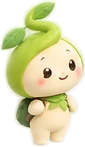
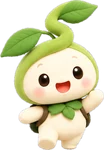
#00287: feat:新しい設定画から仲間5人の正面の絵とレアスプル10色の絵・育つ絵を切り抜く(畑とスプルキャッチの種・芽を新しい絵にする。Sの輪の内側などに囲まれた格子模様も抜く)

diff --git a/frontend/src/components/spru/spru-assets.ts b/frontend/src/components/spru/spru-assets.ts
@@ -54,17 +54,69 @@ export const SPRU_BLOOM = {
   "bud": { src: "/spru/bloom/bud.webp", width: 25, height: 29 },
 } as const satisfies Record<string, SpruImage>;
 
-export const GARDEN_IMAGES = {
-  "seed": { src: "/spru/garden/seed.webp", width: 65, height: 112 },
-  "sprout": { src: "/spru/garden/sprout.webp", width: 62, height: 120 },
+export const GROWTH_IMAGES = {
+  "spru/seed": { src: "/spru/growth/spru/seed.webp", width: 68, height: 98 },
+  "spru/sprout": { src: "/spru/growth/spru/sprout.webp", width: 70, height: 119 },
+  "spru/bud": { src: "/spru/growth/spru/bud.webp", width: 68, height: 126 },
+  "spru/flower": { src: "/spru/growth/spru/flower.webp", width: 103, height: 140 },
+  "ruby/seed": { src: "/spru/growth/ruby/seed.webp", width: 65, height: 95 },
+  "ruby/sprout": { src: "/spru/growth/ruby/sprout.webp", width: 71, height: 118 },
+  "ruby/bud": { src: "/spru/growth/ruby/bud.webp", width: 70, height: 124 },
+  "ruby/flower": { src: "/spru/growth/ruby/flower.webp", width: 114, height: 141 },
+  "sapphire/seed": { src: "/spru/growth/sapphire/seed.webp", width: 66, height: 95 },
+  "sapphire/sprout": { src: "/spru/growth/sapphire/sprout.webp", width: 71, height: 119 },
+  "sapphire/bud": { src: "/spru/growth/sapphire/bud.webp", width: 69, height: 125 },
+  "sapphire/flower": { src: "/spru/growth/sapphire/flower.webp", width: 110, height: 142 },
+  "silver/seed": { src: "/spru/growth/silver/seed.webp", width: 65, height: 92 },
+  "silver/sprout": { src: "/spru/growth/silver/sprout.webp", width: 72, height: 119 },
+  "silver/bud": { src: "/spru/growth/silver/bud.webp", width: 70, height: 122 },
+  "silver/flower": { src: "/spru/growth/silver/flower.webp", width: 102, height: 137 },
+  "amber/seed": { src: "/spru/growth/amber/seed.webp", width: 63, height: 92 },
+  "amber/sprout": { src: "/spru/growth/amber/sprout.webp", width: 73, height: 120 },
+  "amber/bud": { src: "/spru/growth/amber/bud.webp", width: 72, height: 125 },
+  "amber/flower": { src: "/spru/growth/amber/flower.webp", width: 117, height: 145 },
+  "obsidian/seed": { src: "/spru/growth/obsidian/seed.webp", width: 66, height: 95 },
+  "obsidian/sprout": { src: "/spru/growth/obsidian/sprout.webp", width: 72, height: 118 },
+  "obsidian/bud": { src: "/spru/growth/obsidian/bud.webp", width: 70, height: 125 },
+  "obsidian/flower": { src: "/spru/growth/obsidian/flower.webp", width: 113, height: 141 },
+  "crystal/seed": { src: "/spru/growth/crystal/seed.webp", width: 64, height: 94 },
+  "crystal/sprout": { src: "/spru/growth/crystal/sprout.webp", width: 71, height: 121 },
+  "crystal/bud": { src: "/spru/growth/crystal/bud.webp", width: 69, height: 125 },
+  "crystal/flower": { src: "/spru/growth/crystal/flower.webp", width: 110, height: 140 },
+  "pearl/seed": { src: "/spru/growth/pearl/seed.webp", width: 65, height: 91 },
+  "pearl/sprout": { src: "/spru/growth/pearl/sprout.webp", width: 71, height: 119 },
+  "pearl/bud": { src: "/spru/growth/pearl/bud.webp", width: 69, height: 125 },
+  "pearl/flower": { src: "/spru/growth/pearl/flower.webp", width: 107, height: 139 },
+  "emerald/seed": { src: "/spru/growth/emerald/seed.webp", width: 67, height: 95 },
+  "emerald/sprout": { src: "/spru/growth/emerald/sprout.webp", width: 71, height: 118 },
+  "emerald/bud": { src: "/spru/growth/emerald/bud.webp", width: 70, height: 124 },
+  "emerald/flower": { src: "/spru/growth/emerald/flower.webp", width: 110, height: 140 },
+  "gold/seed": { src: "/spru/growth/gold/seed.webp", width: 59, height: 79 },
+  "gold/sprout": { src: "/spru/growth/gold/sprout.webp", width: 73, height: 118 },
+  "gold/bud": { src: "/spru/growth/gold/bud.webp", width: 71, height: 122 },
+  "gold/flower": { src: "/spru/growth/gold/flower.webp", width: 98, height: 130 },
+  "platinum/seed": { src: "/spru/growth/platinum/seed.webp", width: 67, height: 92 },
+  "platinum/sprout": { src: "/spru/growth/platinum/sprout.webp", width: 70, height: 119 },
+  "platinum/bud": { src: "/spru/growth/platinum/bud.webp", width: 69, height: 122 },
+  "platinum/flower": { src: "/spru/growth/platinum/flower.webp", width: 108, height: 139 },
 } as const satisfies Record<string, SpruImage>;
 
 export const COMPANION_IMAGES = {
-  "lumi": { src: "/spru/companions/lumi.webp", width: 86, height: 144 },
-  "momo": { src: "/spru/companions/momo.webp", width: 85, height: 142 },
-  "kuru": { src: "/spru/companions/kuru.webp", width: 88, height: 154 },
-  "piko": { src: "/spru/companions/piko.webp", width: 85, height: 147 },
-  "ruru": { src: "/spru/companions/ruru.webp", width: 82, height: 153 },
+  "lumi": { src: "/spru/companions/lumi.webp", width: 104, height: 153 },
+  "momo": { src: "/spru/companions/momo.webp", width: 101, height: 152 },
+  "kuru": { src: "/spru/companions/kuru.webp", width: 94, height: 155 },
+  "piko": { src: "/spru/companions/piko.webp", width: 104, height: 150 },
+  "ruru": { src: "/spru/companions/ruru.webp", width: 95, height: 151 },
+  "ruby": { src: "/spru/companions/ruby.webp", width: 104, height: 154 },
+  "sapphire": { src: "/spru/companions/sapphire.webp", width: 104, height: 154 },
+  "silver": { src: "/spru/companions/silver.webp", width: 104, height: 152 },
+  "amber": { src: "/spru/companions/amber.webp", width: 104, height: 154 },
+  "obsidian": { src: "/spru/companions/obsidian.webp", width: 103, height: 153 },
+  "crystal": { src: "/spru/companions/crystal.webp", width: 104, height: 153 },
+  "pearl": { src: "/spru/companions/pearl.webp", width: 104, height: 153 },
+  "emerald": { src: "/spru/companions/emerald.webp", width: 104, height: 153 },
+  "gold": { src: "/spru/companions/gold.webp", width: 100, height: 148 },
+  "platinum": { src: "/spru/companions/platinum.webp", width: 104, height: 153 },
 } as const satisfies Record<string, SpruImage>;
 
 export const OUTING_IMAGES = {
@@ -229,7 +281,7 @@ export type SpruImageKey = keyof typeof SPRU_IMAGES;
 export type SpruFaceKey = keyof typeof SPRU_FACES;
 export type SpruSceneKey = keyof typeof SPRU_SCENES;
 export type SpruBloomKey = keyof typeof SPRU_BLOOM;
-export type GardenImageKey = keyof typeof GARDEN_IMAGES;
+export type GrowthImageKey = keyof typeof GROWTH_IMAGES;
 export type CompanionKey = keyof typeof COMPANION_IMAGES;
 export type OutingKey = keyof typeof OUTING_IMAGES;
 export type CostumeKey = keyof typeof COSTUME_IMAGES;

diff --git a/frontend/src/components/world/garden-art.tsx b/frontend/src/components/world/garden-art.tsx
@@ -1,18 +1,18 @@
-import { GARDEN_IMAGES, type GardenImageKey } from "@/components/spru/spru-assets";
+import { plantImage, type PlantStage } from "@/components/spru/plant";
 
 import type { GardenState } from "./types";
 
-// 畑の芽の絵の高さ(SVGの単位)。大きな芽は小さな芽と同じ絵を大きく描く
-const PLANT: Record<Exclude<GardenState, "empty">, { image: GardenImageKey; height: number }> = {
-  seed: { image: "seed", height: 18 },
-  sprout: { image: "sprout", height: 22 },
-  sprout_big: { image: "sprout", height: 32 },
+// 畑の状態ごとの絵と高さ(SVGの単位)。2回水をあげた大きな芽は、つぼみの絵(docs/design/2026-09-29-rare-spru-design.md 3-4)
+const PLANT: Record<Exclude<GardenState, "empty">, { stage: PlantStage; height: number }> = {
+  seed: { stage: "seed", height: 16 },
+  sprout: { stage: "sprout", height: 24 },
+  sprout_big: { stage: "bud", height: 30 },
 };
 
-/** スプルの家の前の畑(原点=マスの中心)。土の畝に、水やりの回数に応じた種・芽を重ねる */
-export function GardenArt({ state }: { state: GardenState }) {
+/** スプルの家の前の畑(原点=マスの中心)。土の畝に、水やりの回数に応じた種・芽・つぼみを重ねる */
+export function GardenArt({ state, look }: { state: GardenState; look: string | null }) {
   const plant = state === "empty" ? null : PLANT[state];
-  const asset = plant ? GARDEN_IMAGES[plant.image] : null;
+  const asset = plant ? plantImage(look, plant.stage) : null;
   const width = plant && asset ? (asset.width * plant.height) / asset.height : 0;
   return (
     <g>

diff --git a/frontend/src/components/spru/plant.test.ts b/frontend/src/components/spru/plant.test.ts
@@ -1,0 +1,25 @@
+import { describe, expect, it } from "vitest";
+
+import { plantImage } from "./plant";
+import { GROWTH_IMAGES } from "./spru-assets";
+
+describe("plantImage", () => {
+  it("色と段階の絵を返す", () => {
+    expect(plantImage("gold", "bud")).toBe(GROWTH_IMAGES["gold/bud"]);
+    expect(plantImage("spru", "seed")).toBe(GROWTH_IMAGES["spru/seed"]);
+  });
+
+  it("見た目が無い・知らない色は、ふつうのスプルの絵", () => {
+    expect(plantImage(null, "sprout")).toBe(GROWTH_IMAGES["spru/sprout"]);
+    expect(plantImage("riri", "flower")).toBe(GROWTH_IMAGES["spru/flower"]);
+  });
+
+  it("10色と、ふつうのスプルの4段階がそろっている", () => {
+    const looks = ["spru", "ruby", "sapphire", "silver", "amber", "obsidian", "crystal", "pearl", "emerald", "gold", "platinum"];
+    for (const look of looks) {
+      for (const stage of ["seed", "sprout", "bud", "flower"] as const) {
+        expect(Object.keys(GROWTH_IMAGES)).toContain(`${look}/${stage}`);
+      }
+    }
+  });
+});

diff --git a/frontend/src/components/games/catch/catch-view.test.ts b/frontend/src/components/games/catch/catch-view.test.ts
@@ -1,7 +1,7 @@
 import { describe, expect, it } from "vitest";
 
 import type { GameQuestion } from "@/components/games/game-question";
-import { GARDEN_IMAGES, SPRU_BLOOM } from "@/components/spru/spru-assets";
+import { GROWTH_IMAGES, SPRU_BLOOM } from "@/components/spru/spru-assets";
 
 import { createCatchGame, tick, type CatchState } from "./catch-engine";
 import {
@@ -77,8 +77,8 @@ describe("落ちてくる言葉のカードの見た目", () => {
 
 describe("成長の印の絵", () => {
   it("種・芽は畑の絵、つぼみ・花はスプルの頭の絵", () => {
-    expect(growthImage("seed")).toBe(GARDEN_IMAGES.seed);
-    expect(growthImage("sprout")).toBe(GARDEN_IMAGES.sprout);
+    expect(growthImage("seed")).toBe(GROWTH_IMAGES["spru/seed"]);
+    expect(growthImage("sprout")).toBe(GROWTH_IMAGES["spru/sprout"]);
     expect(growthImage("bud")).toBe(SPRU_BLOOM.bud);
     expect(growthImage("flower")).toBe(SPRU_BLOOM.flower);
   });

diff --git a/frontend/src/components/games/catch/catch-view.ts b/frontend/src/components/games/catch/catch-view.ts
@@ -1,5 +1,5 @@
 import { splitPrompt } from "@/components/games/game-question";
-import { GARDEN_IMAGES, SPRU_BLOOM, type SpruImage } from "@/components/spru/spru-assets";
+import { GROWTH_IMAGES, SPRU_BLOOM, type SpruImage } from "@/components/spru/spru-assets";
 
 import type { CatchState, GrowthStage } from "./catch-engine";
 
@@ -46,8 +46,8 @@ export function cardLook(state: CatchState, lane: number): CardLook {
 
 export function growthImage(stage: GrowthStage): SpruImage {
   const images: Record<GrowthStage, SpruImage> = {
-    seed: GARDEN_IMAGES.seed,
-    sprout: GARDEN_IMAGES.sprout,
+    seed: GROWTH_IMAGES["spru/seed"],
+    sprout: GROWTH_IMAGES["spru/sprout"],
     bud: SPRU_BLOOM.bud,
     flower: SPRU_BLOOM.flower,
   };

diff --git a/frontend/src/components/spru/plant.ts b/frontend/src/components/spru/plant.ts
@@ -1,0 +1,12 @@
+import { GROWTH_IMAGES, type SpruImage } from "./spru-assets";
+
+export type PlantStage = "seed" | "sprout" | "bud" | "flower";
+
+/**
+ * 畑で育つ絵(docs/design/2026-09-29-rare-spru-design.md 3-4)。look は spru(ふつうのスプル。仲間の種もこれ)か
+ * レアスプルの色。見た目が無い・絵の無い色は、ふつうのスプルの絵
+ */
+export function plantImage(look: string | null, stage: PlantStage): SpruImage {
+  const images: Record<string, SpruImage> = GROWTH_IMAGES;
+  return images[`${look ?? "spru"}/${stage}`] ?? GROWTH_IMAGES[`spru/${stage}`];
+}

diff --git a/frontend/src/components/world/world-scene.tsx b/frontend/src/components/world/world-scene.tsx
@@ -343,7 +343,7 @@ export function WorldScene({
                 <>
                   <g style={artStyle}>
                     {o.landmarkKey === "garden" ? (
-                      <GardenArt state={garden.state} />
+                      <GardenArt state={garden.state} look={null} />
                     ) : (
                       <LandmarkArt landmarkKey={o.landmarkKey} />
                     )}

diff --git a/tools/spru-assets/extract.py b/tools/spru-assets/extract.py
@@ -6,7 +6,7 @@
 - 切り抜く範囲は同じフォルダの crops.json に書く(素材集上のピクセル座標 [左, 上, 右, 下])
 - 1点ごとに "width" を書くと、その幅(px)に縮める(アイテムは1マス256px・2×2は384px)
 - 出力: frontend/public/spru/{group}/{key}.webp、表情の顔アイコン faces/、シーン scenes/、
-  つぼみ・花 bloom/、畑の種・芽 garden/、仲間 companions/、リュックのスプル outing/、季節の衣装 costumes/、バッジ badges/、
+  つぼみ・花 bloom/、畑で育つ絵 growth/{見た目}/{段階}.webp(キーに / を入れる)、仲間 companions/、リュックのスプル outing/、季節の衣装 costumes/、バッジ badges/、
   国のスタンプ stamps/(キーは国のコードの小文字)、スプルの家 house/(背景が透明でない絵は四隅から背景を抜く)、
   (背景の透明を灰色の格子模様で描いてしまった絵は "background": "checker" で格子を抜く。新しい設定画 spru/ の多く)、
   町のアイテム・おみやげ・目印 items/(キーは絵のキー。docs/design/2026-09-28-town-items-design.md 7-1。
@@ -35,6 +35,11 @@ TIP_ROWS = 6  # いちばん上から何行分の平均を、Sの先の横位置
 BG_THRESH = 55  # 背景を抜くとき、四隅の色からどれだけ離れた色まで背景とみなすか
 CHECKER_SPREAD = 14  # 格子とみなす色の、RGBの最大と最小の差の上限(色味のない灰色)
 CHECKER_RANGE = (100, 215)  # 格子とみなす明るさ(Rの値)の範囲。白い花びらや、つやの白は入らない
+CHECKER_TONE_DIST = 16  # 明るさの山の近くとみなす差
+CHECKER_HOLE_MIN = 30  # 囲まれた格子として抜く塊の最小の大きさ(小さな灰色の点は残す)
+CHECKER_HOLE_TONE_SHARE = 0.6  # 囲まれた塊のうち、明るさの2つの山の近くにある点の割合がこれ以上なら格子とみなす
+CHECKER_HOLE_SPREAD = 32  # 囲まれた格子とみなす色の、RGBの最大と最小の差の上限(うっすら色が付いた格子も入れる)
+CHECKER_HOLE_GAP = 30  # 格子の濃い灰と薄い灰の明るさの差の下限(四辺の格子では約48)
 
 
 def components(mask: Image.Image) -> list[list[tuple[int, int]]]:
@@ -111,10 +116,61 @@ def clear_checker(img: Image.Image) -> Image.Image:
         for nx, ny in ((x + 1, y), (x - 1, y), (x, y + 1), (x, y - 1)):
             if 0 <= nx < w and 0 <= ny < h and not seen[ny * w + nx]:
                 queue.append((nx, ny))
+    clear_checker_holes(px, w, h, seen)
     alpha = Image.frombytes("L", (w, h), bytes(0 if v else 255 for v in seen)).filter(ImageFilter.GaussianBlur(1.2))
     out = rgb.convert("RGBA")
     out.putalpha(alpha)
     return out
+
+
+def clear_checker_holes(px, w: int, h: int, seen: bytearray) -> None:
+    """Sの輪の内側や足もとの影のように、四辺からつながらない格子、うっすら色が付いた格子も抜く(seen に印を付ける)。
+    色味の少ない灰色の塊を集め、明るさが2つの山(格子の濃い灰と薄い灰)にはっきり分かれている塊だけを格子とみなす
+    (体のつやや影は明るさがなだらかに変わるので2つの山にならず、残る)"""
+    lo, hi = CHECKER_RANGE
+
+    def candidate(x: int, y: int) -> bool:
+        r, g, b = px[x, y]
+        return max(r, g, b) - min(r, g, b) <= CHECKER_HOLE_SPREAD and lo - 20 <= (r + g + b) // 3 <= hi
+
+    visited = bytearray(w * h)
+    for start in range(w * h):
+        if seen[start] or visited[start]:
+            continue
+        sx, sy = start % w, start // w
+        if not candidate(sx, sy):
+            continue
+        comp = []
+        queue = deque([(sx, sy)])
+        visited[start] = 1
+        while queue:
+            x, y = queue.popleft()
+            comp.append((x, y))
+            for nx, ny in ((x + 1, y), (x - 1, y), (x, y + 1), (x, y - 1)):
+                j = ny * w + nx
+                if 0 <= nx < w and 0 <= ny < h and not visited[j] and not seen[j] and candidate(nx, ny):
+                    visited[j] = 1
+                    queue.append((nx, ny))
+        if len(comp) >= CHECKER_HOLE_MIN and is_two_tone([sum(px[x, y]) // 3 for x, y in comp]):
+            for x, y in comp:
+                seen[y * w + x] = 1
+
+
+def is_two_tone(values: list[int]) -> bool:
+    """明るさが、はなれた2つの山にまとまっているか(格子の市松)。2つに分けたそれぞれの平均の差が CHECKER_HOLE_GAP 以上で、
+    どちらの山にも2割以上あり、山の近く(±CHECKER_TONE_DIST)に CHECKER_HOLE_TONE_SHARE 以上が入っていれば真"""
+    dark, light = min(values), max(values)
+    for _ in range(10):
+        mid = (dark + light) / 2
+        low = [v for v in values if v <= mid]
+        high = [v for v in values if v > mid]
+        if not low or not high:
+            return False
+        dark, light = sum(low) / len(low), sum(high) / len(high)
+    if light - dark < CHECKER_HOLE_GAP or min(len(low), len(high)) < len(values) * 0.2:
+        return False
+    near = sum(1 for v in values if abs(v - dark) <= CHECKER_TONE_DIST or abs(v - light) <= CHECKER_TONE_DIST)
+    return near >= len(values) * CHECKER_HOLE_TONE_SHARE
 
 
 def cut_figure(src: Image.Image, box: list[int], scale: float, mode: str = "largest") -> Image.Image:
@@ -174,7 +230,7 @@ def entries(items: dict) -> str:
 
 
 def write_ts(
-    images: dict, faces: dict, scenes: dict, bloom: dict, garden: dict, companions: dict,
+    images: dict, faces: dict, scenes: dict, bloom: dict, growth: dict, companions: dict,
     outing: dict, costumes: dict, badges: dict, stamps: dict, house: dict, items: dict, tips: dict,
     icons: dict, stages: dict, avatars: dict, travel: dict, pages: dict,
 ) -> None:
@@ -201,8 +257,8 @@ export const SPRU_BLOOM = {{
 {entries(bloom)}
 }} as const satisfies Record<string, SpruImage>;
 
-export const GARDEN_IMAGES = {{
-{entries(garden)}
+export const GROWTH_IMAGES = {{
+{entries(growth)}
 }} as const satisfies Record<string, SpruImage>;
 
 export const COMPANION_IMAGES = {{
@@ -265,7 +321,7 @@ export type SpruImageKey = keyof typeof SPRU_IMAGES;
 export type SpruFaceKey = keyof typeof SPRU_FACES;
 export type SpruSceneKey = keyof typeof SPRU_SCENES;
 export type SpruBloomKey = keyof typeof SPRU_BLOOM;
-export type GardenImageKey = keyof typeof GARDEN_IMAGES;
+export type GrowthImageKey = keyof typeof GROWTH_IMAGES;
 export type CompanionKey = keyof typeof COMPANION_IMAGES;
 export type OutingKey = keyof typeof OUTING_IMAGES;
 export type CostumeKey = keyof typeof COSTUME_IMAGES;
@@ -312,7 +368,7 @@ def main() -> None:
     checker_cleared: dict = {}  # 格子を抜くのは重いので、元の絵ごとに1回だけ
     parts: dict = {}
     for group in (
-        "bloom", "garden", "companions", "outing", "costumes", "badges", "stamps", "house", "items",
+        "bloom", "growth", "companions", "outing", "costumes", "badges", "stamps", "house", "items",
         "icons", "stages", "avatars", "travel", "pages",
     ):
         parts[group] = {}
@@ -331,13 +387,13 @@ def main() -> None:
             parts[group][part["key"]] = save(img, f'{group}/{part["key"]}.webp')
 
     write_ts(
-        images, faces, scenes, parts["bloom"], parts["garden"], parts["companions"],
+        images, faces, scenes, parts["bloom"], parts["growth"], parts["companions"],
         parts["outing"], parts["costumes"], parts["badges"], parts["stamps"], parts["house"], parts["items"], tips,
         parts["icons"], parts["stages"], parts["avatars"], parts["travel"], parts["pages"],
     )
     print(
         f"画像 {len(images)}・顔 {len(faces)}・シーン {len(scenes)}・花 {len(parts['bloom'])}"
-        f"・畑 {len(parts['garden'])}・仲間 {len(parts['companions'])}"
+        f"・育つ絵 {len(parts['growth'])}・仲間 {len(parts['companions'])}"
         f"・お出かけ {len(parts['outing'])}・衣装 {len(parts['costumes'])}・バッジ {len(parts['badges'])}"
         f"・スタンプ {len(parts['stamps'])}・家 {len(parts['house'])}・アイテム {len(parts['items'])}"
         f"・アイコン {len(parts['icons'])}・ステージ {len(parts['stages'])}・アバター {len(parts['avatars'])}"
